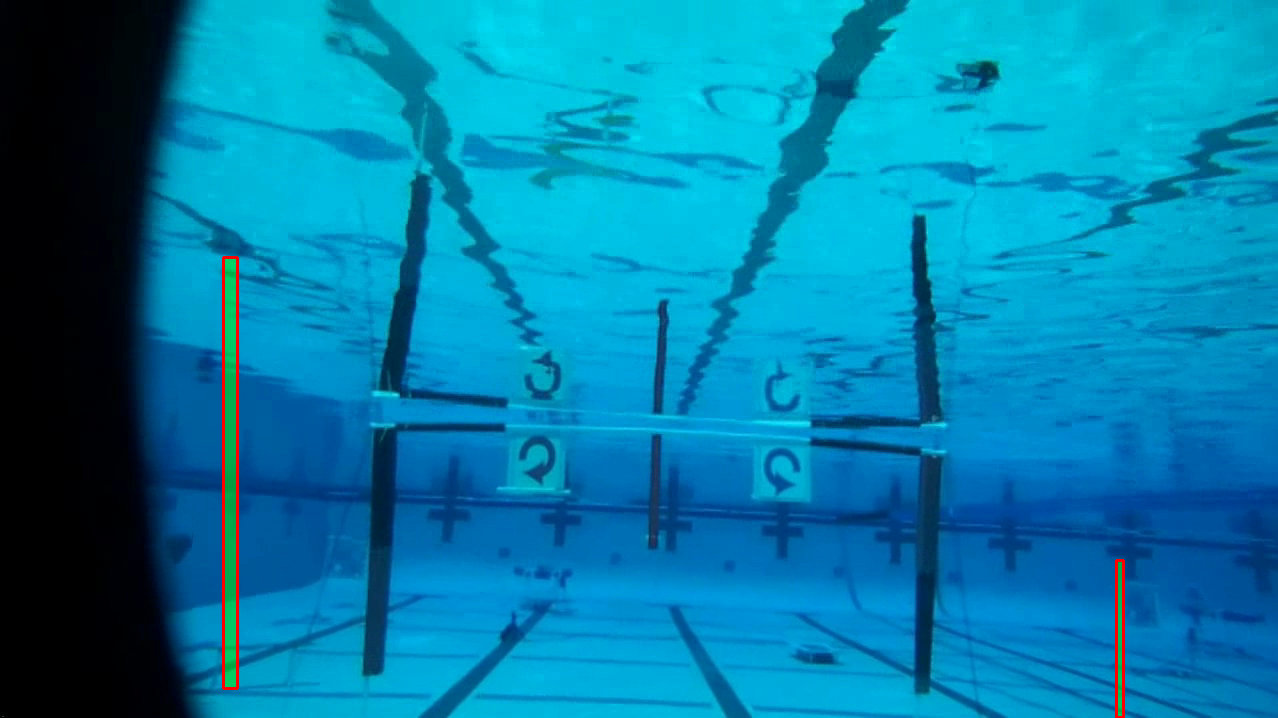
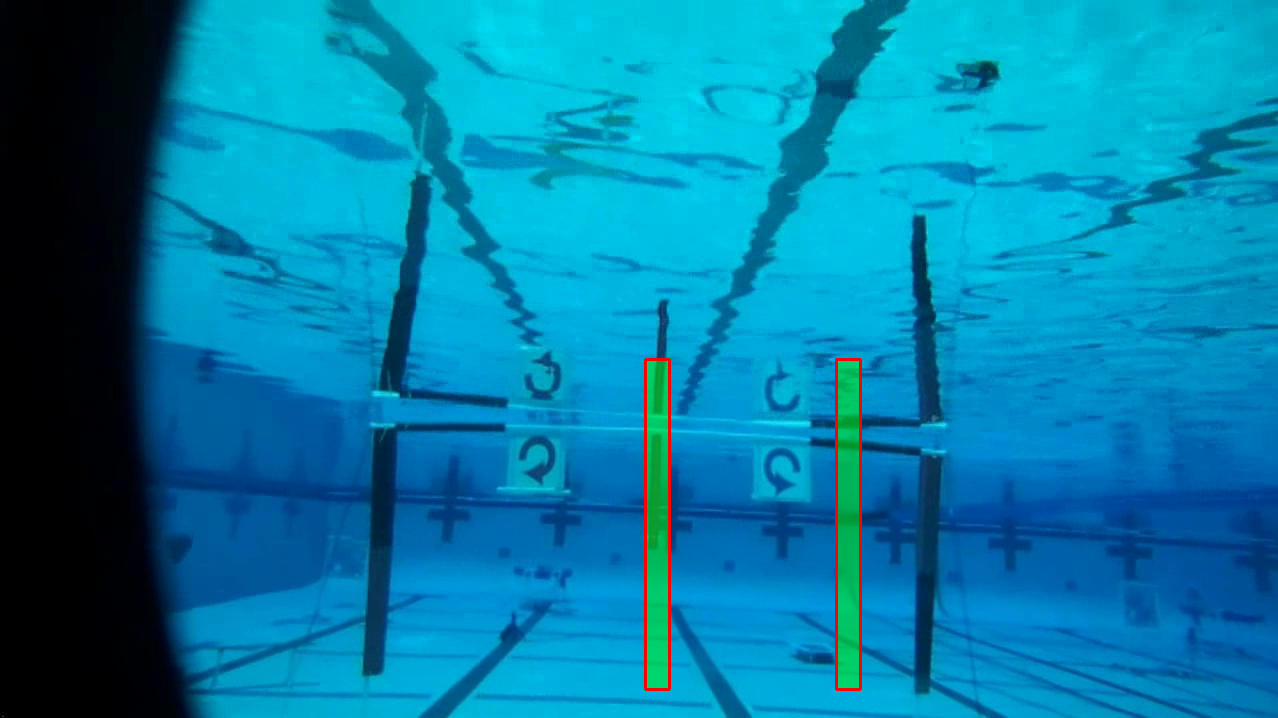
commit change

diff --git a/slalom/edge_detect.py b/slalom/edge_detect.py
@@ -208,33 +208,87 @@ def find_poles(image,
 # ---------------------------------------------------------------------------
 
 def detect_gate_poles(image):
-    inter, spans, full_mask = find_poles(
-        image,
-        sobel_thresh=15,
-        continuity_px=60,
-        min_lower_rows=60,
-        min_pole_width=3,
-        max_pole_width=14,
-        lower_frac=0.25,
-        border_frac=0.12,          # gate image has a large fisheye border
-    )
+    """
+    Gate-specific detector using column brightness dips.
+
+    The inner gate posts appear DARK against the bright pool floor.
+    Averaging brightness over the lower half of the frame and finding
+    local minima in the column profile reliably locates both posts.
+    The Sobel edge approach fails here because the post edges are too
+    similar in strength to the surrounding lane-line noise.
+    """
     h, w = image.shape[:2]
+    gray = cv2.cvtColor(image, cv2.COLOR_BGR2GRAY)
 
-    if len(spans) < 2:
-        print(f"  [gate] Only {len(spans)} pole(s) — using all")
-        return inter, spans, full_mask
+    # Build intermediates for the display panel
+    clahe    = cv2.createCLAHE(clipLimit=3.0, tileGridSize=(8, 8))
+    enhanced = clahe.apply(gray)
+    blurred  = cv2.GaussianBlur(enhanced, (3, 3), 0.8)
+    sobelx   = cv2.Sobel(blurred, cv2.CV_64F, 1, 0, ksize=3)
 
-    spans_sorted = sorted(spans, key=lambda s: (s[0] + s[1]) // 2)
-    selected = [spans_sorted[0], spans_sorted[-1]]
+    def to_binary(arr, t):
+        mx = arr.max()
+        if mx < 1e-6:
+            return np.zeros(arr.shape, dtype=np.uint8)
+        normed = (arr / mx * 255).astype(np.uint8)
+        _, binary = cv2.threshold(normed, t, 255, cv2.THRESH_BINARY)
+        return binary
 
+    inter = {
+        "enhanced":      enhanced,
+        "left_cont":     to_binary(np.clip( sobelx, 0, None), 12),
+        "right_cont":    to_binary(np.clip(-sobelx, 0, None), 12),
+        "edge_combined": to_binary(np.abs(sobelx), 12),
+    }
+
+    # ------------------------------------------------------------------
+    # Column brightness-dip approach
+    # Average grayscale over y=50-90% of frame (below crossbar, above floor).
+    # Inner posts are darker than the bright pool floor → local minima.
+    # ------------------------------------------------------------------
+    y1, y2     = int(h * 0.50), int(h * 0.90)
+    col_mean   = gray[y1:y2, :].astype(float).mean(axis=0)
+    col_smooth = np.convolve(col_mean, np.ones(7) / 7, mode='same')
+
+    # Search only in the inner gate region (x: 40-68% of frame width)
+    x_lo, x_hi = int(w * 0.40), int(w * 0.68)
+
+    dips = []
+    for x in range(x_lo + 20, x_hi - 20):
+        if col_smooth[x] == col_smooth[x - 20: x + 20].min():
+            dips.append((float(col_smooth[x]), x))
+
+    dips.sort()   # darkest first
+    print(f"  [gate] Brightness dips in x={x_lo}→{x_hi}:")
+    for bri, x in dips[:6]:
+        print(f"         x={x}  brightness={bri:.1f}")
+
+    if len(dips) < 2:
+        print("  [gate] Not enough dips — falling back to edge method")
+        _, spans, mask = find_poles(image, sobel_thresh=12, continuity_px=50,
+                                    min_lower_rows=40, border_frac=0.30)
+        return inter, spans, mask
+
+    # Two darkest dips = left and right inner posts
+    selected_x = sorted([dips[0][1], dips[1][1]])
+    print(f"  [gate] Inner posts at x={selected_x[0]} (LEFT) and x={selected_x[1]} (RIGHT)")
+
+    # Draw boxes from crossbar level down to pool floor
+    crossbar_y = int(h * 0.50)
+    pole_bot   = int(h * 0.96)
+    half_w     = 12
+
+    spans     = []
     gate_mask = np.zeros((h, w), dtype=np.uint8)
-    for xl, xr, yt, yb in selected:
-        cx   = (xl + xr) // 2
+    for cx in selected_x:
+        xl   = max(0, cx - half_w)
+        xr   = min(w - 1, cx + half_w)
         side = "LEFT" if cx < w // 2 else "RIGHT"
-        print(f"  [gate] {side} pole: cx={cx}, y={yt}→{yb}")
-        cv2.rectangle(gate_mask, (xl, yt), (xr, yb), 255, -1)
+        print(f"  [gate] {side} pole: cx={cx}, y={crossbar_y}→{pole_bot}")
+        spans.append((xl, xr, crossbar_y, pole_bot))
+        cv2.rectangle(gate_mask, (xl, crossbar_y), (xr, pole_bot), 255, -1)
 
-    return inter, selected, gate_mask
+    return inter, spans, gate_mask
 
 
 # ---------------------------------------------------------------------------
